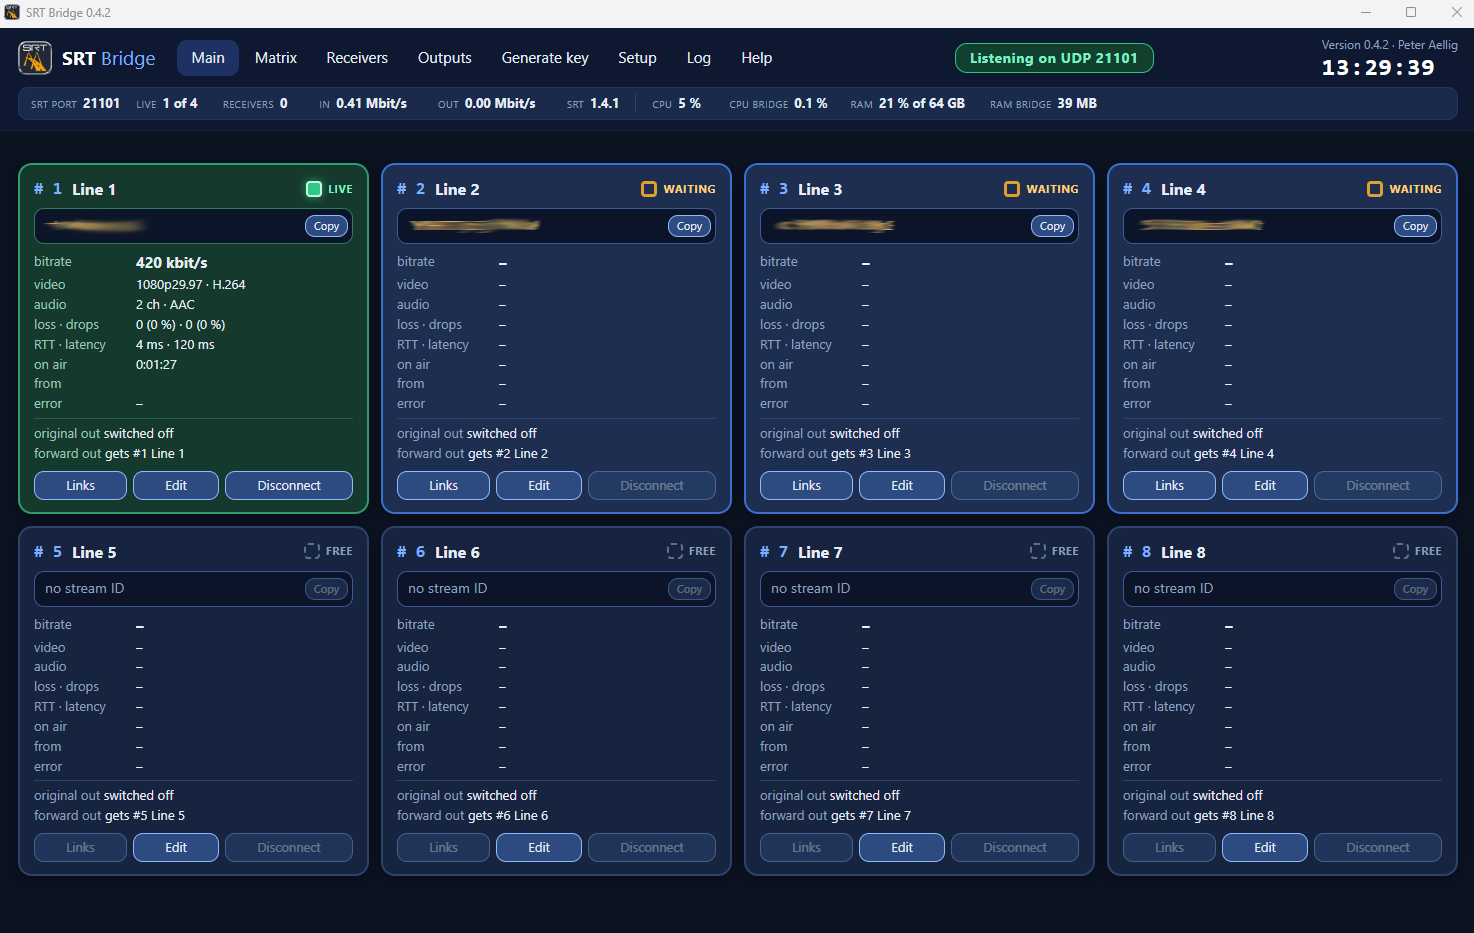
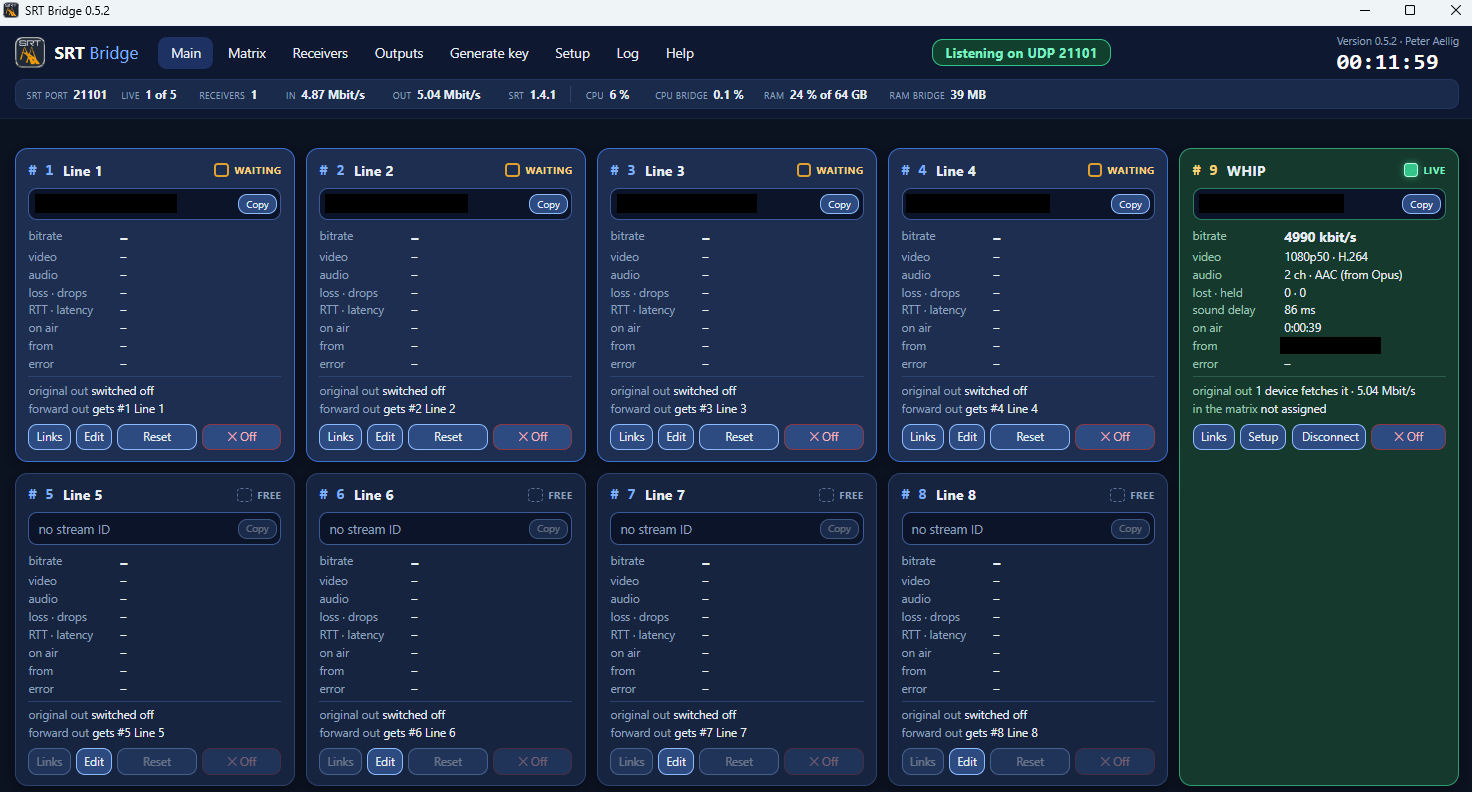
Update the main window screenshot to show the live WHIP input

diff --git a/README.md b/README.md
@@ -14,7 +14,7 @@ Install this Bridge in your studio on a mid-range computer (Windows 10/11) with 
 
 For SRT inputs, the bridge passes the packets on unchanged. Nothing is decoded or encoded again, so the picture quality stays as it was sent and the delay is only the SRT latency on each leg.
 
-![SRT Bridge Main window showing one live input, three waiting inputs and four free slots](docs/main.png)
+![SRT Bridge 0.5.2 showing eight SRT channels and a live WHIP input on channel 9](docs/main.png)
 
 During installation, 8 channels are configured; you can adjust this number as desired in the setup.
 
